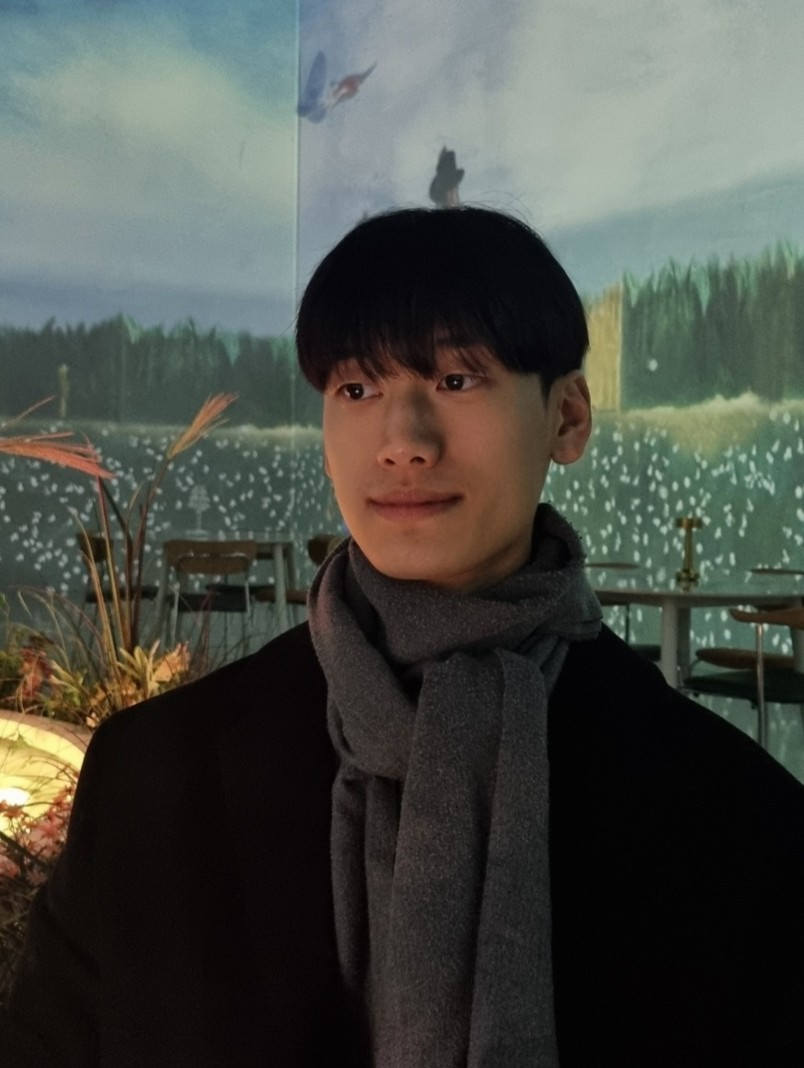
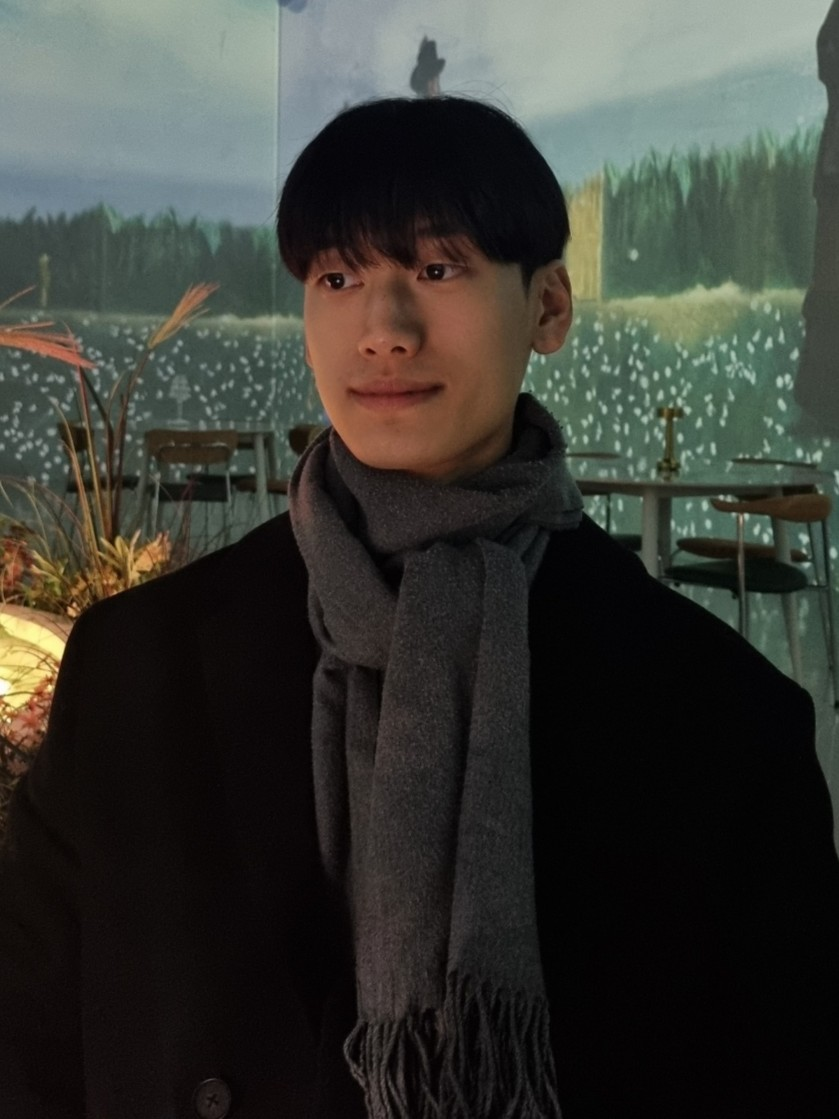
edit imgs

diff --git a/src/TeamPage.js b/src/TeamPage.js
@@ -105,7 +105,7 @@ const TeamPage = () => {
         },
         { 
             name: 'Jisang Yoo', 
-            img: process.env.PUBLIC_URL + '/team/JSYYY.jpg',
+            img: process.env.PUBLIC_URL + '/team/JSY.jpg',
             desc: '2024.03 - Present',
             email: 'jisang1528@skku.edu', 
             scholar: '',
